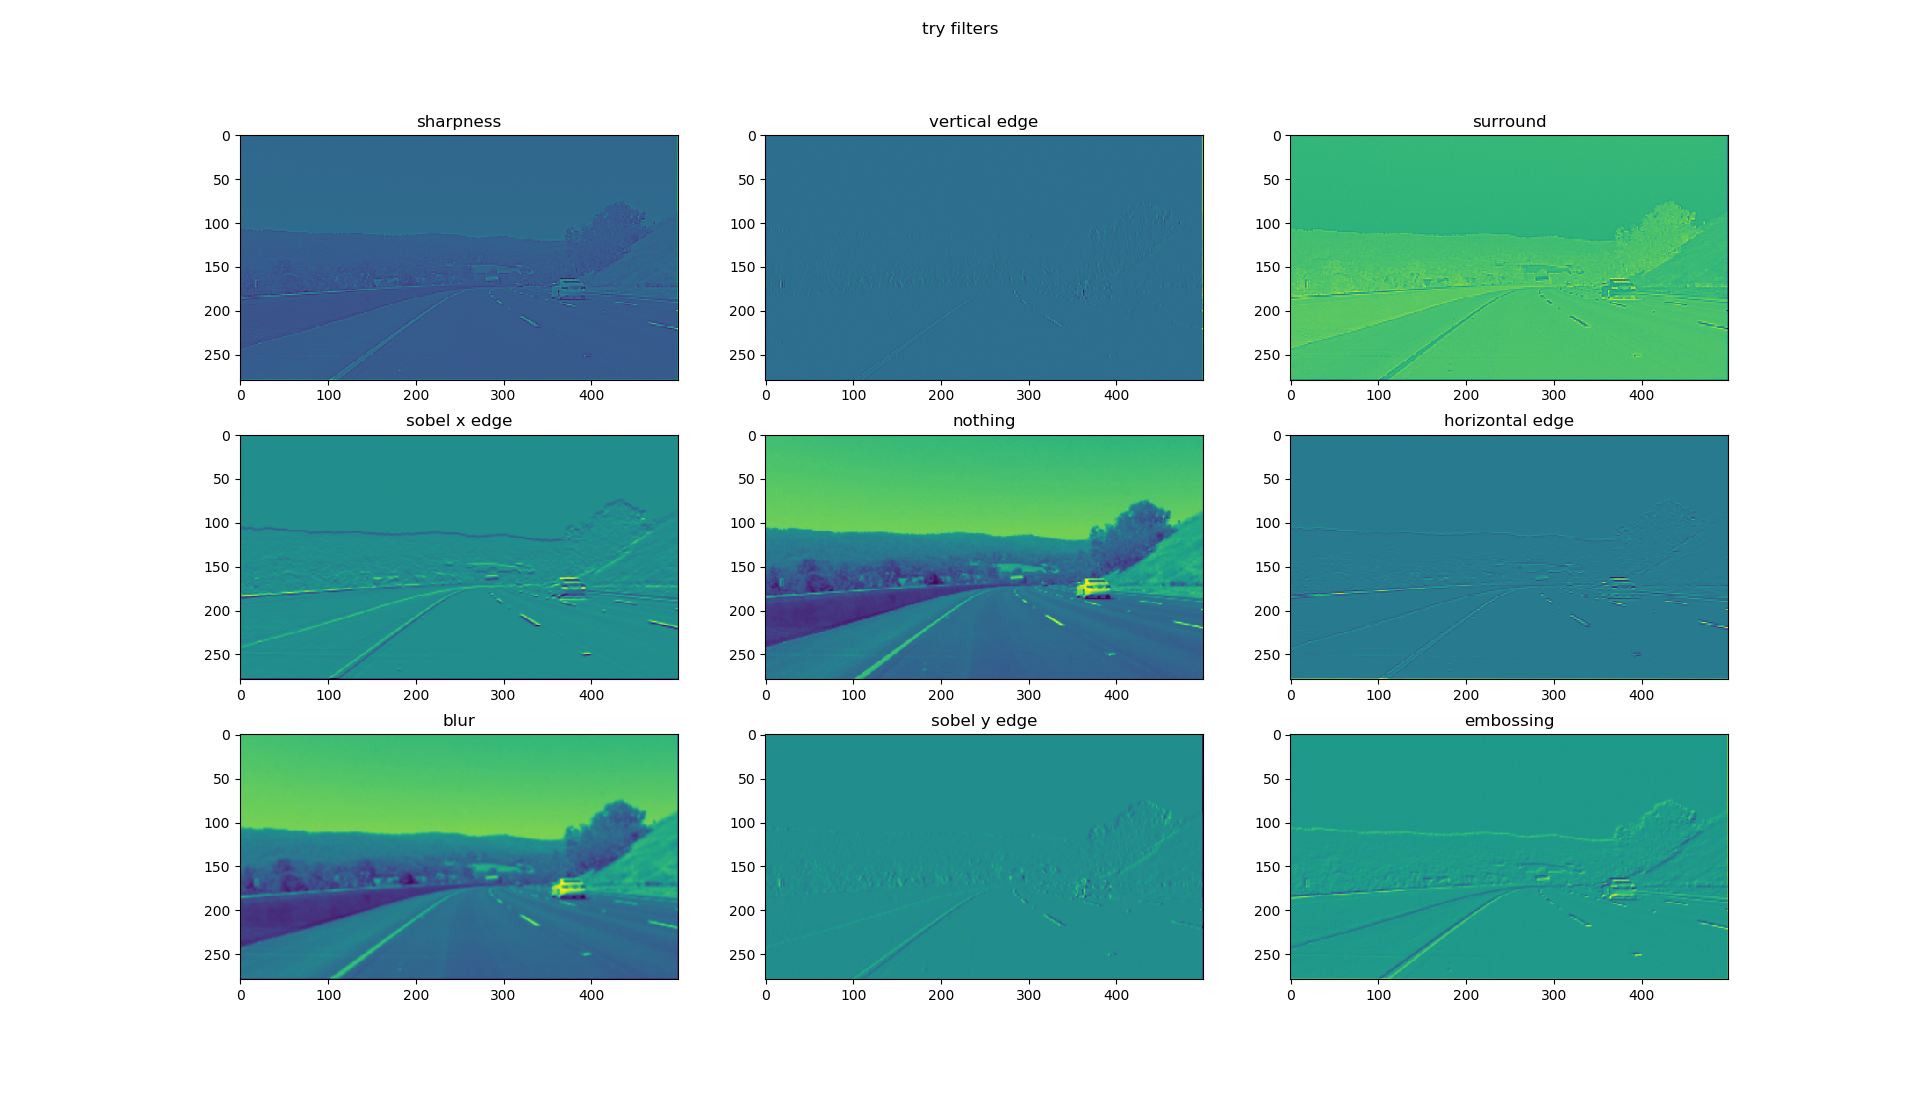
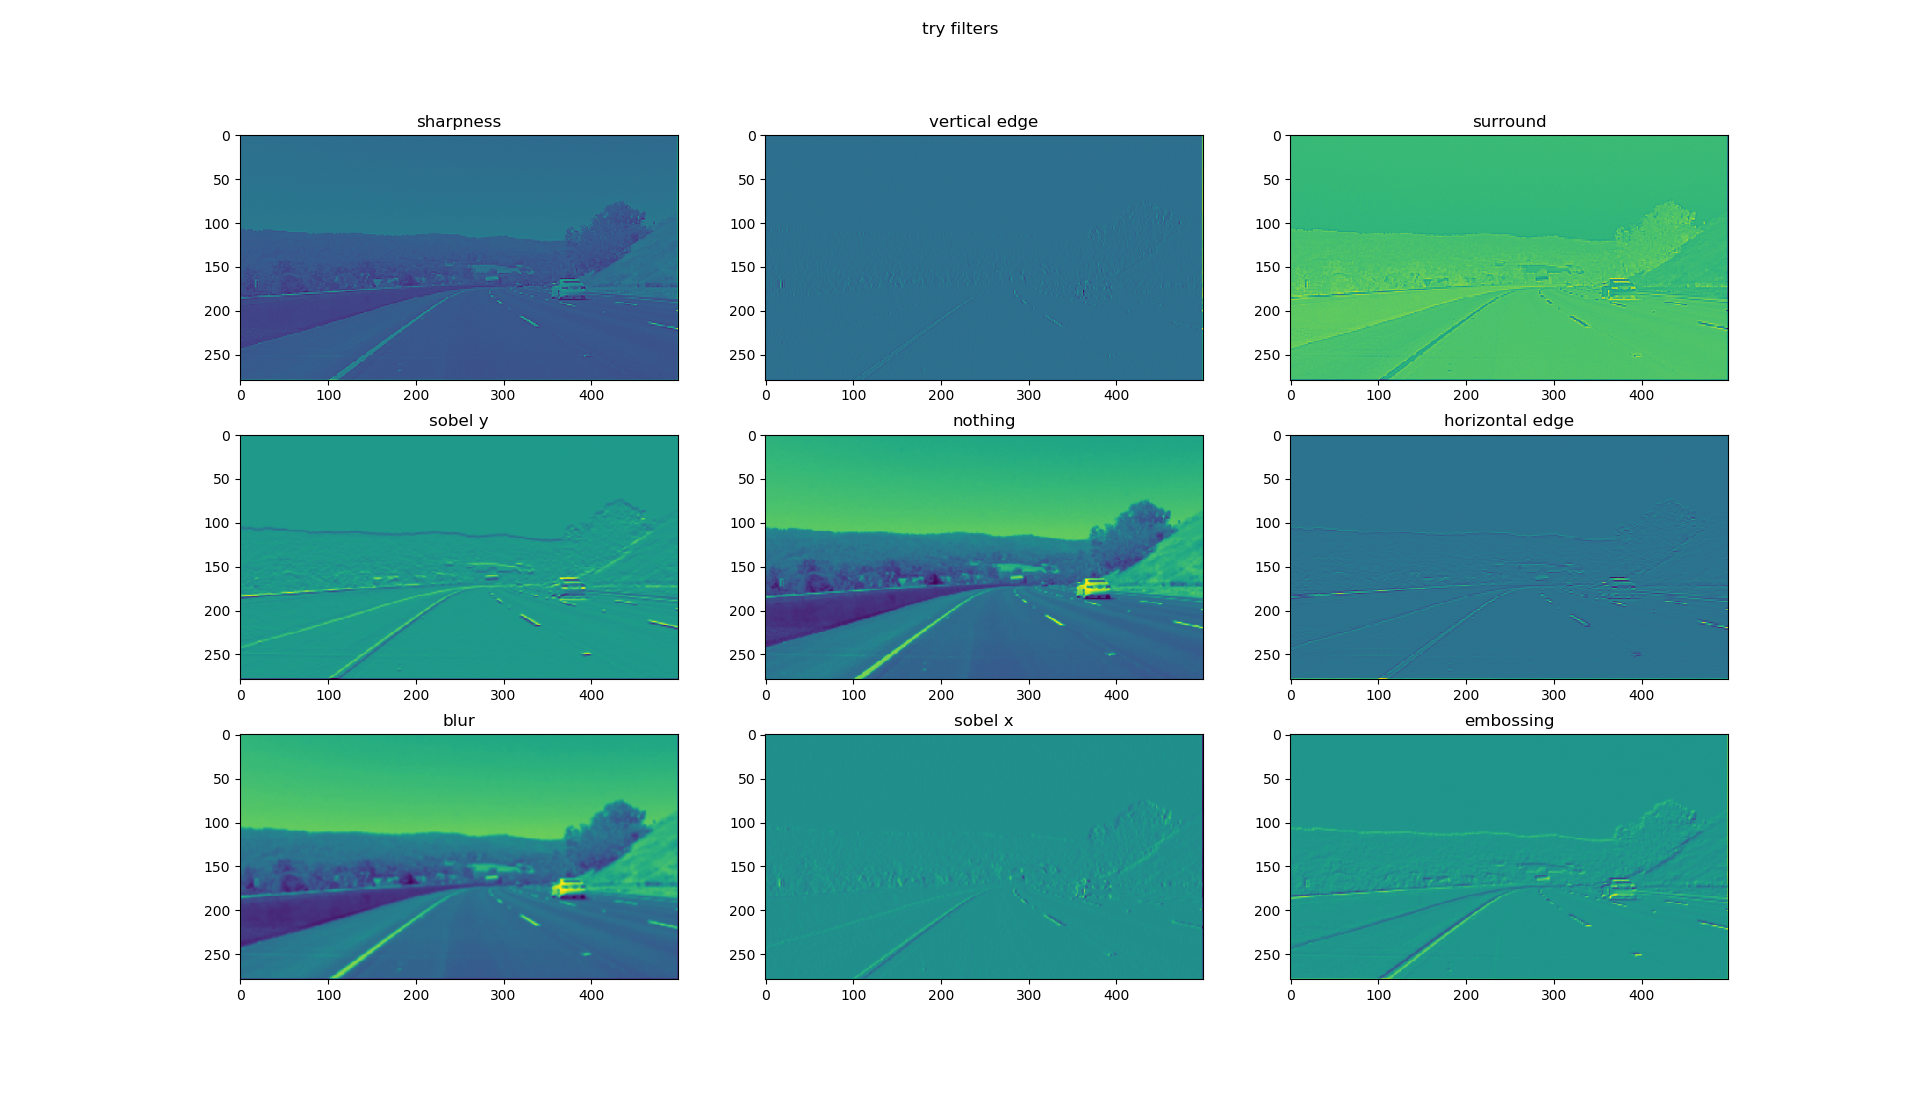
nnh

diff --git a/B-教学案例与实践/B6-神经网络基本原理简明教程/SourceCode/ch17-CNN/Level0_KnowCNN.py b/B-教学案例与实践/B6-神经网络基本原理简明教程/SourceCode/ch17-CNN/Level0_KnowCNN.py
@@ -13,8 +13,7 @@ from MiniFramework.HyperParameters_4_2 import *
 from MiniFramework.jit_utility import *
 
 cat_pic = "../../Data/cat.png"
-#car_pic = "../../Data/car.png"
-car_pic = "../../Data/girl.jpg"
+car_pic = "../../Data/car.png"
 
 def normalize(x, max_value=1):
     min = np.min(x)
@@ -46,33 +45,33 @@ def try_filters(file_name):
     filters = [
         np.array([0,-1,0,
                   -1,5,-1,
-                  0,-1,0]),       # sharpness filter
-        np.array([0,-1,0,
-                  0,2,0,
-                  0,-1,0]),         # vertical edge
+                  0,-1,0]),         # sharpness filter
+        np.array([0,0,0,
+                  -1,2,-1,
+                  0,0,0]),          # vertical edge
         np.array([1,1,1,
                   1,-9,1,
                   1,1,1]),          # surround
-        np.array([-1,0,1,
-                  -2,0,2,
-                  -1,0,1]),         # sobel x
-        np.array([0,0,0,
-                  0,1,0,
-                  0,0,0]),          # nothing
-        np.array([0,0,0,
-                  -1,2,-1,
-                  0,0,0]),          # horizontal edge
-        np.array([0.11,0.11,0.11,
-                  0.11,0.11,0.11,
-                  0.11,0.11,0.11]),    # blur
         np.array([-1,-2,-1,
                   0,0,0,
                   1,2,1]),          # sobel y
+        np.array([0,0,0,
+                  0,1,0,
+                  0,0,0]),          # nothing
+        np.array([0,-1,0,
+                  0,2,0,
+                  0,-1,0]),         # horizontal edge
+        np.array([0.11,0.11,0.11,
+                  0.11,0.11,0.11,
+                  0.11,0.11,0.11]), # blur
+        np.array([-1,0,1,
+                  -2,0,2,
+                  -1,0,1]),         # sobel x
         np.array([2,0,0,
                   0,-1,0,
                   0,0,-1])]         # embossing
 
-    filters_name = ["sharpness", "vertical edge", "surround", "sobel x edge", "nothing", "horizontal edge", "blur", "sobel y edge", "embossing"]
+    filters_name = ["sharpness", "vertical edge", "surround", "sobel y", "nothing", "horizontal edge", "blur", "sobel x", "embossing"]
 
     fig, ax = plt.subplots(nrows=3, ncols=3, figsize=(9,9))
     for i in range(len(filters)):
@@ -80,7 +79,7 @@ def try_filters(file_name):
         conv.set_filter(filter, np.array([10]))
         z = conv.forward(data)
         #z = normalize(z, 255)
-        ax[i//3, i%3].imshow(z[0,0], cmap='gray')
+        ax[i//3, i%3].imshow(z[0,0])
         ax[i//3, i%3].set_title(filters_name[i])
     plt.suptitle("try filters")
     plt.show()

diff --git a/B-教学案例与实践/B6-神经网络基本原理简明教程/Step8 - CNN/17.7-经典卷积神经网络模型.md b/B-教学案例与实践/B6-神经网络基本原理简明教程/Step8 - CNN/17.7-经典卷积神经网络模型.md
@@ -1,57 +1,190 @@
 Copyright © Microsoft Corporation. All rights reserved.
   适用于[License](https：//github.com/Microsoft/ai-edu/blob/master/LICENSE.md)版权许可
 
+## 17.7 卷积神经网络的演进
 
-CV基本知识
+卷积神经网络是现在深度学习领域中最有用的网络类型，尤其在计算机视觉领域更是一枝独秀。CNN从90年代的LeNet开始，沉寂了10年，也孵化了10年，直到2012年AlexNet开始再次崛起，后续的ZF Net、VGG、GoogLeNet、ResNet、DenseNet，网络越来越深，架构越来越复杂，解决反向传播时梯度消失的方法也越来越巧妙。下面让我们一起学习一下这些经典的网络模型。
 
+### 17.7.1 LeNet (1998)
 
-
-## 17.7 卷积神经网络发展简史
-
-在卷积网络的短暂发展史上，有很多著名的网络模型：
-
-- LeNet (1990s)
+CNN的鼻祖。
 
 <img src="../Images/17/Net_LeNet.png">
 
 【图片来源：http://yann.lecun.com/exdb/publis/pdf/lecun-01a.pdf 】
 
-- Incubation
-- AlexNet (2012 NIPS)
+LeNet是卷积神经网络的开创者LeCun在1998年提出，用于解决手写数字识别的视觉任务。自那时起，CNN的最基本的架构就定下来了：卷积层、池化层、全连接层。
+
+1. 输入为单通道32x32灰度图
+2. 使用6组5x5的过滤器，每个过滤器里有一个卷积核，stride=1，得到6张28x28的特征图
+3. 使用2x2的池化，stride=2，得到6张14x14的特征图
+4. 使用16组5x5的过滤器，每个过滤器里有6个卷积核，对应上一层的6个特征图，得到16张10x10的特征图
+5. 池化，得到16张5x5的特征图
+6. 接全连接层，120个神经元
+7. 接全连接层，84个神经元
+8. 接全连接层，10个神经元，softmax输出
+
+如今各大深度学习框架中所使用的LeNet都是简化改进过的LeNet-5（5表示具有5个层），和原始的LeNet有些许不同，比如把激活函数改为了现在很常用的ReLu。LeNet-5跟现有的conv->pool->ReLU的套路不同，它使用的方式是conv1->pool->conv2->pool2再接全连接层，但是不变的是，卷积层后紧接池化层的模式依旧不变。
+
+### 17.7.2 AlexNet (2012)
+
+AlexNet网络结构在整体上类似于LeNet，都是先卷积然后在全连接。但在细节上有很大不同。AlexNet更为复杂。AlexNet有60 million个参数和65000个 神经元，五层卷积，三层全连接网络，最终的输出层是1000通道的softmax。
+
+AlexNet用两块GPU并行计算，大大提高了训练效率，并且在ILSVRC-2012竞赛中获得了top-5测试的15.3%的error rate，获得第二名的方法error rate是26.2%，差距非常大，足以说明这个网络在当时的影响力。
 
 <img src="../Images/17/Net_AlexNet.png">
 
 【图片来源：https://papers.nips.cc/paper/4824-imagenet-classification-with-deep-convolutional-neural-networks.pdf 】
 
-- ZFNet (2014 ECCV)
+1. 原始图片是3x224x224三通道彩色图片，分开到上下两块GPU上进行训练
+2. 卷积，96核，11x11，stride=4，pad=0，输出96x55x55
+3. LRN+池化，3x3，stride=2，pad=0，输出96x27x27
+4. 卷积，256核，5x5，stride=1，pad=2，输出256x27x27
+5. LRN+池化，3x3，stride=2，输出256x13x13
+6. 卷积，384核，3x3，stride=1，pad=1，输出384x13x13
+7. 卷积，384核，3x3，stride=1，pad=1，输出384x13x13
+8. 卷积，256核，3x3，stride=1，pad=1，输出256x13x13
+9. 池化，3x3，stride=2，输出256x6x6
+10. 全连接层，4096个神经元，接Dropout和Relu
+11. 全连接层，4096个神经元，接Dropout和Relu
+12. 全连接层，1000个神经元做分类
+
+AlexNet的特点：
+
+- 比LeNet深和宽的网络
+  
+  使用了5层卷积和3层全连接，一共8层。特征数在最宽初达到384。
+
+- 数据增强
+  
+  针对原始图片256x256的数据，做了随机剪裁，得到224x224的图片若干张。
+
+- 使用ReLU做激活函数
+- 在全连接层使用DropOut
+- 使用LRN
+  
+  LRN的全称为Local Response Normalizatio，局部响应归一化，是想对线性输出做一个归一化，避免上下越界。发展至今，这个技术已经很少使用了。
+
+### 17.7.3 ZFNet (2013)
+
+ZFNet是2013年ImageNet分类任务的冠军，其网络结构没什么改进，只是调了调参，性能较Alex提升了不少。ZF-Net只是将AlexNet第一层卷积核由11变成7，步长由4变为2，第3，4，5卷积层转变为384，384，256。这一年的ImageNet还是比较平静的一届，其冠军ZF-Net的名堂也没其他届的经典网络架构响亮。
 
 <img src="../Images/17/Net_ZFNet.png">
 
 【图片来源：https://arxiv.org/pdf/1311.2901v3.pdf 】
 
 
-- GoogLeNet (2014)
+### 17.7.4 VGGNet (2015)
+
+VGG Net由牛津大学的视觉几何组（Visual Geometry Group）和 Google DeepMind公司的研究员一起研发的的深度卷积神经网络，在 ILSVRC 2014 上取得了第二名的成绩，将 Top-5错误率降到7.3%。它主要的贡献是展示出网络的深度（depth）是算法优良性能的关键部分。目前使用比较多的网络结构主要有ResNet（152-1000层），GooleNet（22层），VGGNet（19层），大多数模型都是基于这几个模型上改进，采用新的优化算法，多模型融合等。到目前为止，VGG Net 依然经常被用来提取图像特征。
+
+其论文名称为《VERY DEEP CONVOLUTIONAL NETWORKS FOR LARGE-SCALE IMAGE RECOGNITION》，为大规模图片识别而建立的非常深的卷积网络。短短3、4年时间，现在看起来这个也不能算是“非常深”了。
+
+下图为VGG16（16层的VGG）模型结构：
+
+<img src="../Images/17/Net_Vgg16.png">
+
+VGG比较出名的是VGG-16和VGG-19，最常用的是VGG-16。各种VGG的网络结构如下：
+
+<img src="../Images/17/Net_VggNet_Table.png">
+
+【图片表格来源：https://arxiv.org/pdf/1409.1556.pdf 】
+
+VGGNet的卷积层有一个特点：特征图的空间分辨率单调递减，特征图的通道数单调递增，使得输入图像在维度上流畅地转换到分类向量。用通俗的语言讲，就是特征图尺寸单调递减，特征图数量单调递增。从上面的模型图上来看，立体方块的宽和高逐渐减小，但是厚度逐渐增加。
+
+AlexNet的通道数无此规律，VGGNet后续的GoogLeNet和Resnet均遵循此维度变化的规律。
+
+一些其它的特点如下：
+
+1. 选择采用3x3的卷积核是因为3x3是最小的能够捕捉像素8邻域信息的的尺寸。
+2. 使用1x1的卷积核目的是在不影响输入输出的维度情况下，对输入进行形变，再通过ReLU进行非线性处理，提高决策函数的非线性。
+3. 2个3x3卷积堆叠等于1个5x5卷积，3个3x3堆叠等于1个7x7卷积，感受野大小不变，而采用更多层、更小的卷积核可以引入更多非线性（更多的隐藏层，从而带来更多非线性函数），提高决策函数判决力，并且带来更少参数。
+4. 每个VGG网络都有3个FC层，5个池化层，1个softmax层。
+5. 在FC层中间采用dropout层，防止过拟合。
+
+虽然 VGGNet 减少了卷积层参数，但实际上其参数空间比 AlexNet 大，其中绝大多数的参数都是来自于第一个全连接层，耗费更多计算资源。在随后的 NIN 中发现将这些全连接层替换为全局平均池化，对于性能影响不大，同时显著降低了参数数量。
+
+采用 Pre-trained 方法训练的 VGG model（主要是 D 和 E），相对其他的方法参数空间很大，所以训练一个 VGG 模型通常要花费更长的时间，所幸有公开的 Pre-trained model 让我们很方便的使用。
+
+### 17.7.5 GoogLeNet (2014)
+
+GoogLeNet在2014的ImageNet分类任务上击败了VGG-Nets夺得冠军，其实力肯定是非常深厚的，GoogLeNet跟AlexNet,VGG-Nets这种单纯依靠加深网络结构进而改进网络性能的思路不一样，它另辟幽径，在加深网络的同时（22层），也在网络结构上做了创新，引入Inception结构代替了单纯的卷积+激活的传统操作（这思路最早由Network in Network提出）。GoogLeNet进一步把对卷积神经网络的研究推上新的高度。
+
+模型结构图：
 
 <img src="../Images/17/Net_GoogleNet.png">
 
+蓝色为卷积运算，红色为池化运算，黄色为softmax分类。
+
+Inception结构图：
+
 <img src="../Images/17/Net_GoogleNet_Inception.png">
+
+上图结构就是Inception，结构里的卷积stride都是1，另外为了保持特征响应图大小一致，都用了零填充。最后每个卷积层后面都立刻接了个ReLU层。在输出前有个叫concatenate的层，直译的意思是“并置”，即把4组不同类型但大小相同的特征响应图一张张并排叠起来，形成新的特征响应图。Inception结构里主要做了两件事：1. 通过3×3的池化、以及1×1、3×3和5×5这三种不同尺度的卷积核，一共4种方式对输入的特征响应图做了特征提取。2. 为了降低计算量。同时让信息通过更少的连接传递以达到更加稀疏的特性，采用1×1卷积核来实现降维。
+
+这里想再详细谈谈1×1卷积核的作用，它究竟是怎么实现降维的。现在运算如下：下面图1是3×3卷积核的卷积，图2是1×1卷积核的卷积过程。对于单通道输入，1×1的卷积确实不能起到降维作用，但对于多通道输入，就不不同了。假设你有256个特征输入，256个特征输出，同时假设Inception层只执行3×3的卷积。这意味着总共要进行 256×256×3×3的卷积（589000次乘积累加（MAC）运算）。这可能超出了我们的计算预算，比方说，在Google服务器上花0.5毫秒运行该层。作为替代，我们决定减少需要卷积的特征的数量，比如减少到64（256/4）个。在这种情况下，我们首先进行256到64的1×1卷积，然后在所有Inception的分支上进行64次卷积，接着再使用一个64到256的1×1卷积。
+256×64×1×1 = 16000
+64×64×3×3 = 36000
+64×256×1×1 = 16000
+现在的计算量大约是70000(即16000+36000+16000)，相比之前的约600000，几乎减少了10倍。这就通过小卷积核实现了降维。
+现在再考虑一个问题：为什么一定要用1×1卷积核，3×3不也可以吗？考虑[50,200,200]的矩阵输入，我们可以使用20个1×1的卷积核进行卷积，得到输出[20,200,200]。有人问，我用20个3×3的卷积核不是也能得到[20,200,200]的矩阵输出吗，为什么就使用1×1的卷积核？我们计算一下卷积参数就知道了，对于1×1的参数总数：20×200×200×（1×1），对于3×3的参数总数：20×200×200×（3×3），可以看出，使用1×1的参数总数仅为3×3的总数的九分之一！所以我们使用的是1×1卷积核。
 
 <img src="../Images/17/Net_GoogleNet_Table.png">
 
+GoogLeNet网络结构中有3个LOSS单元，这样的网络设计是为了帮助网络的收敛。在中间层加入辅助计算的LOSS单元，目的是计算损失时让低层的特征也有很好的区分能力，从而让网络更好地被训练。在论文中，这两个辅助LOSS单元的计算被乘以0.3，然后和最后的LOSS相加作为最终的损失函数来训练网络。
+
+GoogLeNet还有一个闪光点值得一提，那就是将后面的全连接层全部替换为简单的全局平均pooling，在最后参数会变的更少。而在AlexNet中最后3层的全连接层参数差不多占总参数的90%，使用大网络在宽度和深度允许GoogleNet移除全连接层，但并不会影响到结果的精度，在ImageNet中实现93.3%的精度，而且要比VGG还要快。
 
 
 【图片来源：https://arxiv.org/pdf/1409.4842.pdf 】
 
-- VGGNet (2015 ICLR)
 
-<img src="../Images/17/Net_Vgg16.png">
+### 17.7.6 ResNets (2015)
 
-- ResNets (2015 ILSVRC)
+2015年何恺明推出的ResNet在ISLVRC和COCO上横扫所有选手，获得冠军。ResNet在网络结构上做了大创新，而不再是简单的堆积层数，ResNet在卷积神经网络的新思路，绝对是深度学习发展历程上里程碑式的事件。
 
 <img src="../Images/17/Net_ResNet.png">
 
 【图片来源：https://arxiv.org/abs/1512.03385 】
 
+ResNet称为残差网络。什么是残差呢？
 
-- DenseNet (2017 CVPR)
+若将输入设为X，将某一有参网络层设为H，那么以X为输入的此层的输出将为H(X)。一般的CNN网络如Alexnet/VGG等会直接通过训练学习出参数函数H的表达，从而直接学习X -> H(X)。
+而残差学习则是致力于使用多个有参网络层来学习输入、输出之间的参差即H(X) - X即学习X -> (H(X) - X) + X。其中X这一部分为直接的identity mapping，而H(X) - X则为有参网络层要学习的输入输出间残差。
 
+下图为残差学习这一思想的基本表示：
+
+<img src="../Images/17/Net_ResNet_flow.png">
+
+下图展示了两种形态的残差模块，左图是常规残差模块，有两个3×3卷积核卷积核组成，但是随着网络进一步加深，这种残差结构在实践中并不是十分有效。针对这问题，右图的“瓶颈残差模块”（bottleneck residual block）可以有更好的效果，它依次由1×1、3×3、1×1这三个卷积层堆积而成，这里的1×1的卷积能够起降维或升维的作用，从而令3×3的卷积可以在相对较低维度的输入上进行，以达到提高计算效率的目的。
+
+<img src="../Images/17/Net_ResNet_block.png">
+
+
+### 17.7.7 DenseNet (2017)
+
+DenseNet 是一种具有密集连接的卷积神经网络。在该网络中，任何两层之间都有直接的连接，也就是说，网络每一层的输入都是前面所有层输出的并集，而该层所学习的特征图也会被直接传给其后面所有层作为输入。下图是 DenseNet 的一个dense block示意图，一个block里面的结构如下，与ResNet中的BottleNeck基本一致：BN-ReLU-Conv(1×1)-BN-ReLU-Conv(3×3) ，而一个DenseNet则由多个这种block组成。每个DenseBlock的之间层称为transition layers，由BN−>Conv(1×1)−>averagePooling(2×2)组成：
+
+<img src="../Images/17/Net_DenseNet_1.png">
+
+【图片来源：https://arxiv.org/pdf/1608.06993.pdf 】
+
+DenseNet作为另一种拥有较深层数的卷积神经网络，具有如下优点：
+
+1. 相比ResNet拥有更少的参数数量
+2. 旁路加强了特征的重用
+3. 网络更易于训练,并具有一定的正则效果
+4. 缓解了gradient vanishing和model degradation的问题
+
+何恺明先生在提出ResNet时做出了这样的假设：若某一较深的网络多出另一较浅网络的若干层有能力学习到恒等映射，那么这一较深网络训练得到的模型性能一定不会弱于该浅层网络。通俗的说就是如果对某一网络中增添一些可以学到恒等映射的层组成新的网路，那么最差的结果也是新网络中的这些层在训练后成为恒等映射而不会影响原网络的性能。同样DenseNet在提出时也做过假设:与其多次学习冗余的特征，特征复用是一种更好的特征提取方式。
+
+由于在DenseNet中需要对不同层的feature map进行cat操作，所以需要不同层的feature map保持相同的feature size，这就限制了网络中Down sampling的实现。为了使用Down sampling，作者将DenseNet分为多个Denseblock，如下图所示:
+
+<img src="../Images/17/Net_DenseNet_2.png">
+
+在同一个Denseblock中要求feature size保持相同大小，在不同Denseblock之间设置transition layers实现Down sampling，在作者的实验中transition layer由BN + Conv(1×1)＋2×2 average-pooling组成。
+
+### 参考资料
+
+- https://www.cnblogs.com/skyfsm/p/8451834.html
+- https://blog.csdn.net/sigai_csdn/article/details/82115254
